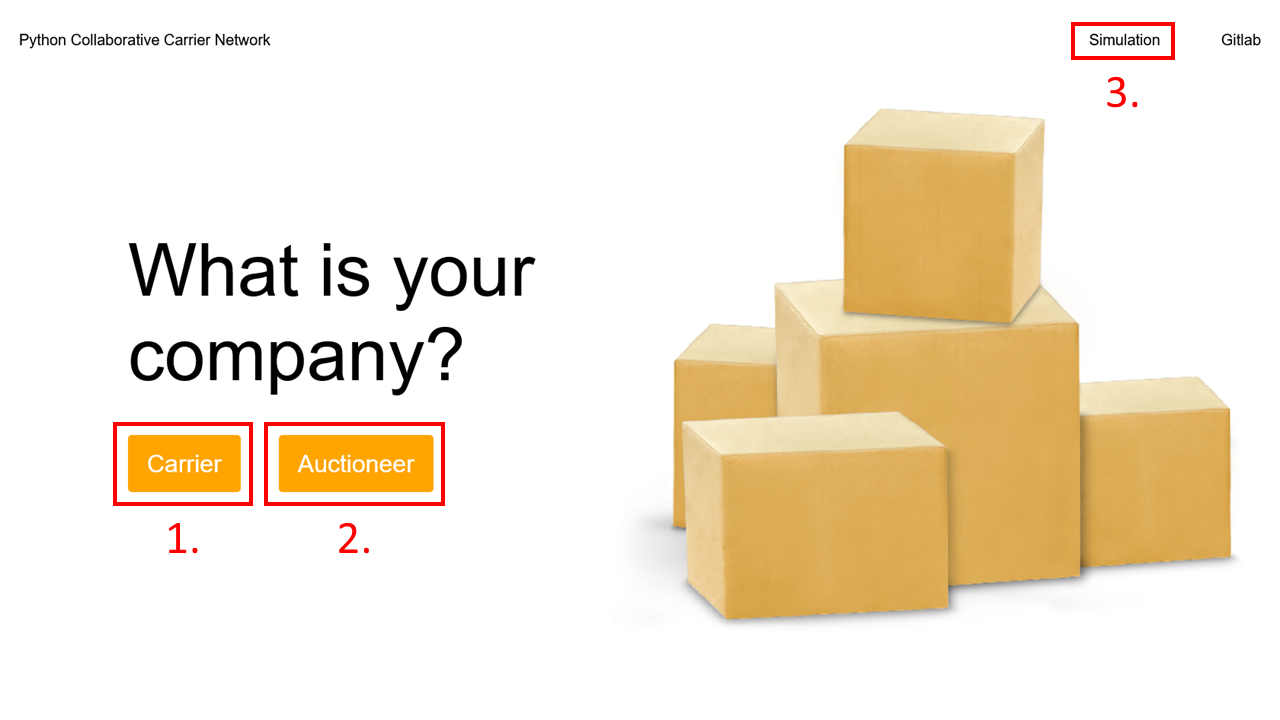
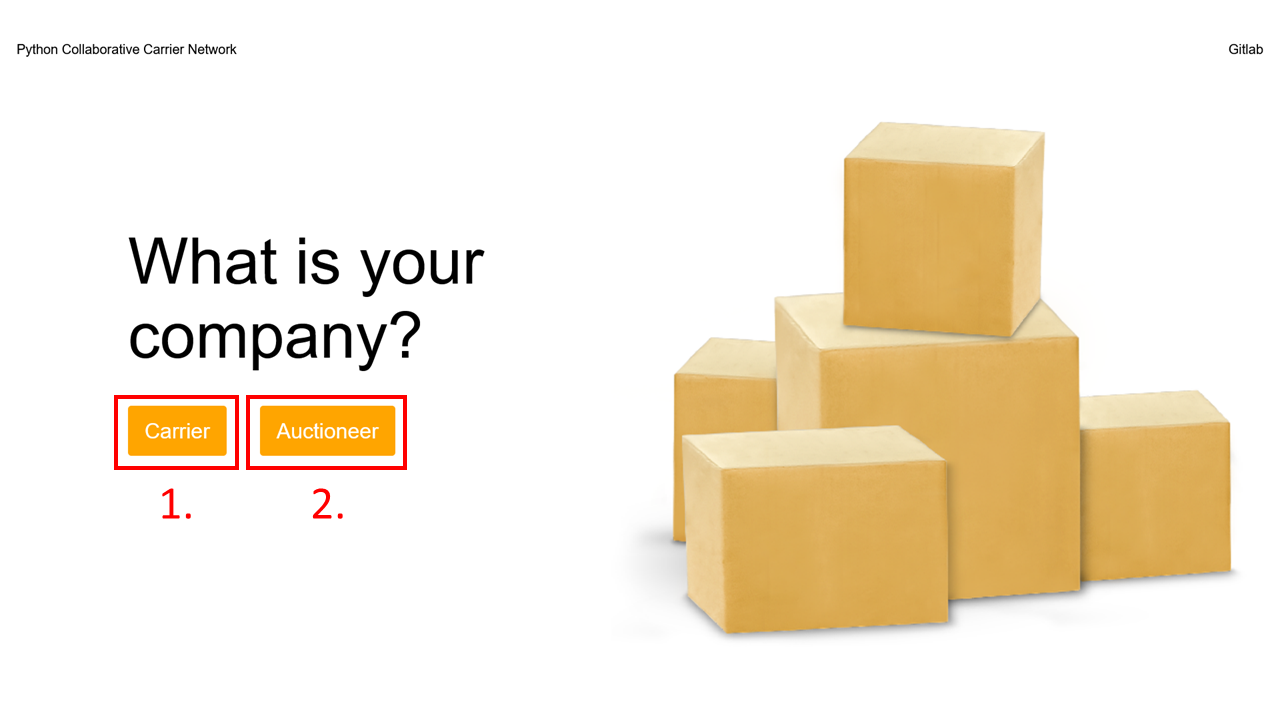
Minor  changes

diff --git a/Application/carrier.py b/Application/carrier.py
@@ -59,7 +59,7 @@ class Carrier:
         print(f"\nSending offers with profit below threshold...\n")
         if requests_below_thresh_list:
             for offer in requests_below_thresh_list:
-                self.socketio.emit(self.carrier_id, {'message': f"Send offer ({offer.loc_pickup['pos_x']}, {offer.loc_pickup['pos_y']}) -> ({offer.loc_dropoff['pos_x']}, {offer.loc_dropoff['pos_y']}) | Profit: {offer.min_price}", 
+                self.socketio.emit(self.carrier_id, {'message': f"Sent offer ({offer.loc_pickup['pos_x']}, {offer.loc_pickup['pos_y']}) -> ({offer.loc_dropoff['pos_x']}, {offer.loc_dropoff['pos_y']}) | Profit: {offer.min_price}", 
                                                      "action": "log"}) 
                 response = self.request_handler.send_offer(offer) # Send an offer
         else:

diff --git a/README.md b/README.md
@@ -20,15 +20,16 @@ The objective of this project is to implement a system that facilitates the reas
 * Use as Carrier
     
         cd Agent_Infrastructure
-        python3 carrier_main.py [CVS File]
+        python3 carrier_main.py [carrier_name]
 
-If no file is added for the carrier the requests are randomly generated.
+After running the command, requests are generated and sent to the auctioneer.
 
 * Use as Auctioneer
 
         cd Agent_Infrastructure
         python3 auctioneer_main.py
 
+Start the auction server.
 
 ## Application
 
@@ -38,7 +39,7 @@ If no file is added for the carrier the requests are randomly generated.
         python3 app.py [portNumber]
 
 It is advised to run a server on a different port for each client due to performance reasons.
-After starting the server you can run the application at http://127.0.0.1:portNumber in a browser.
+After starting the server flask you can access the application at http://127.0.0.1:[portNumber] in a browser.
 
 ![Selection screen](readme_pictures/Selection.png)
 
@@ -52,13 +53,7 @@ Files in the supported format are in the folder 'example__requests'.
 2. Use as Auctioneer
 
 To start the server and the auction day click the button 'Start server'.
-After the auction day ends the server is stopped.
-To restart the server for a new auction day click the the now ornage button 'restart'.
-
-
-3. Simulate
-
-The simulation lets you simulate a specified amount of carriers with multiple console output.
+After the auction day ends, the server stops.
 
 
 ## Authors
